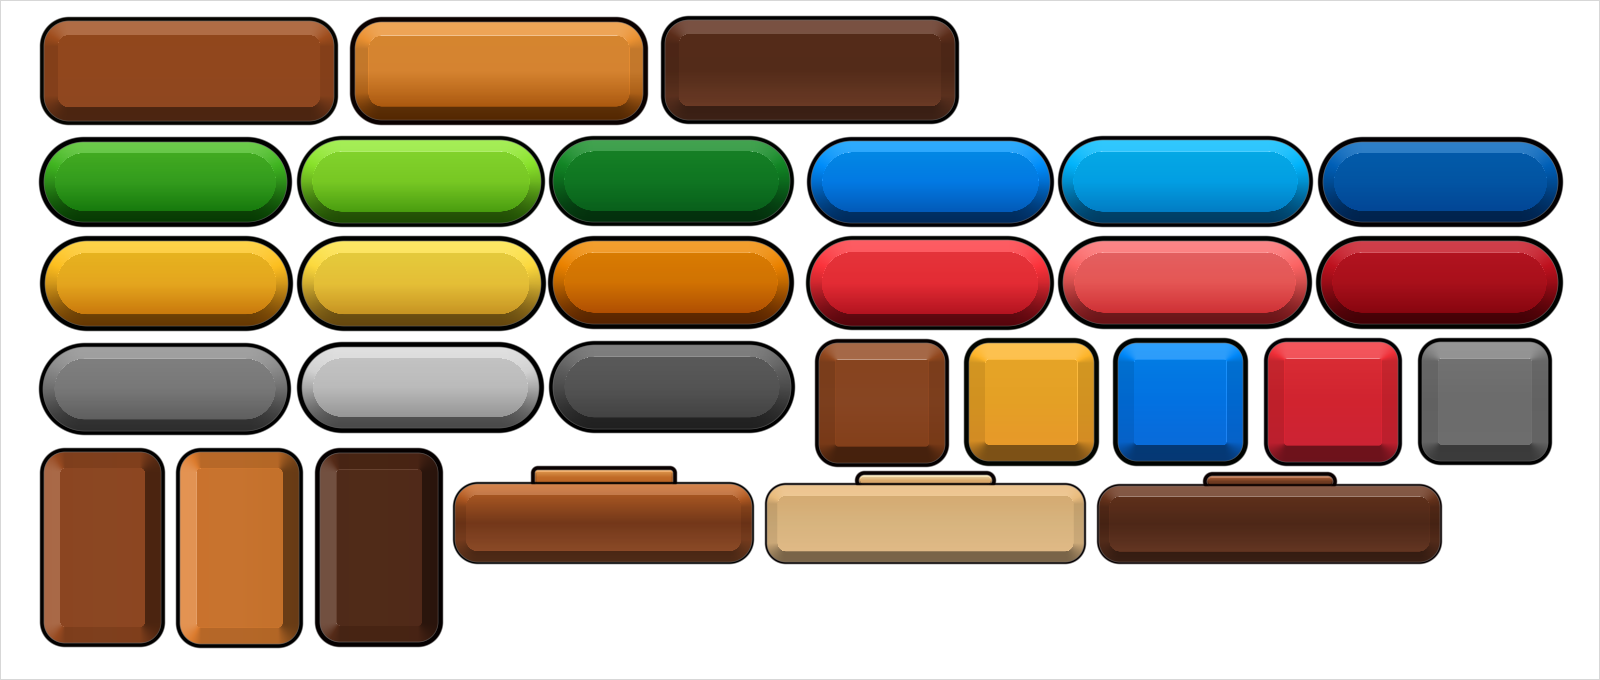
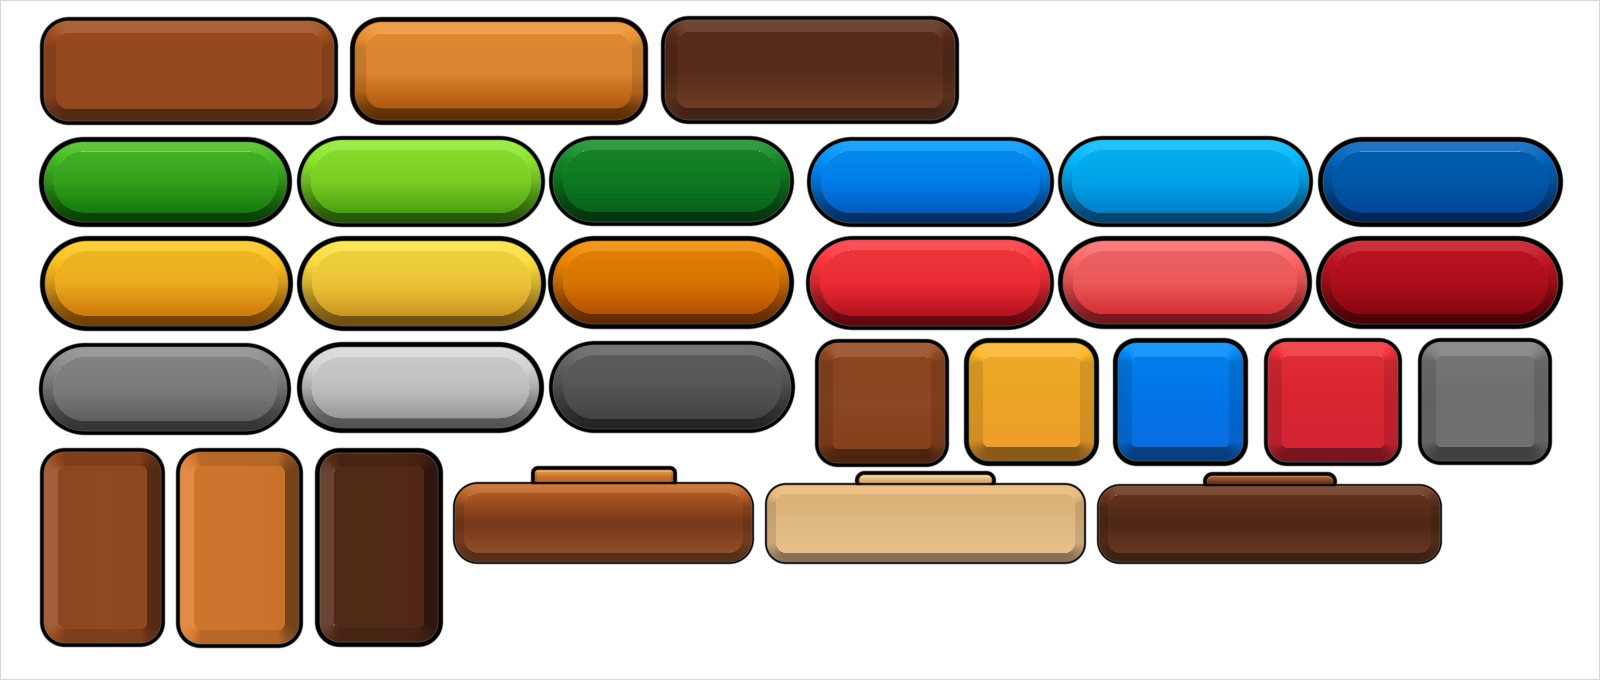
feat(ui): how glossy a lit surface is, as a number
The owner asked for the relief's gloss to be configurable so it can
match the sheet's buttons. Brightness was already a number; how tight
the shine is now is too.

polish decides the shape of the highlight: low spreads it across the
whole lit side, which reads as wet plastic, and high draws it to a
point, which reads as glass. Drawn game art sits low, around a fifth to
a half. It rides in the fill colour's red, which a lit quad does not
otherwise use, so the vertex layout is unchanged again.

- ReliefGlTest: a wet surface shines over more of the lit side than a
  glassy one, and the glassy one is no dimmer where it does shine.
- The Modifiers page has one shape at four polishes.
- The art sheet's buttons, lit and polished to match: half their pixels
  now within 15 levels of 255 of the original, from 18.

diff --git a/composegl-ui/src/commonMain/kotlin/dev/wildware/composegl/ui/modifier/Elements.kt b/composegl-ui/src/commonMain/kotlin/dev/wildware/composegl/ui/modifier/Elements.kt
@@ -273,8 +273,10 @@ data class ReliefElement(
     val elevation: Float = 55f,
     val strength: Float = 0.6f,
     val gloss: Float = 0.3f,
+    val polish: Float = 0.5f,
 ) : Modifier.Element {
     init {
+        require(polish in 0f..1f) { "a surface is between wet and glassy, not $polish" }
         require(depth > 0f && depth <= 1f) { "an edge climbs across some of the box, not $depth" }
         require(elevation > 0f && elevation <= 90f) { "the light is somewhere above the surface, not at $elevation" }
         require(strength >= 0f && strength <= 1f) { "a light is between off and full, not $strength" }
@@ -1085,6 +1087,8 @@ fun Modifier.bevel(
  * @param elevation how high the light is, in degrees: 90 is straight on and flattens everything.
  * @param strength how much difference the light makes.
  * @param gloss how bright the shine is where the surface faces the light squarely.
+ * @param polish how tight that shine is: low spreads it across the whole lit side, which is wet
+ *   plastic, and high draws it to a point, which is glass. Drawn game art is usually low.
  */
 @Suppress("LongParameterList")
 fun Modifier.relief(
@@ -1095,7 +1099,8 @@ fun Modifier.relief(
     elevation: Float = 55f,
     strength: Float = 0.6f,
     gloss: Float = 0.3f,
-) = relief(Corners.single(corner), shape, depth, light, elevation, strength, gloss)
+    polish: Float = 0.5f,
+) = relief(Corners.single(corner), shape, depth, light, elevation, strength, gloss, polish)
 
 /** The same, with its own radius on each corner. */
 @Suppress("LongParameterList")
@@ -1107,7 +1112,8 @@ fun Modifier.relief(
     elevation: Float = 55f,
     strength: Float = 0.6f,
     gloss: Float = 0.3f,
-) = then(ReliefElement(corners, shape, depth, light, elevation, strength, gloss))
+    polish: Float = 0.5f,
+) = then(ReliefElement(corners, shape, depth, light, elevation, strength, gloss, polish))
 
 /**
  * One light, lighting the whole box: the bevel, the shine and the shadow all agree about it.

diff --git a/composegl-lwjgl3/src/test/kotlin/dev/wildware/composegl/lwjgl3/ReliefGlTest.kt b/composegl-lwjgl3/src/test/kotlin/dev/wildware/composegl/lwjgl3/ReliefGlTest.kt
@@ -40,6 +40,7 @@ class ReliefGlTest {
         light: Float = 90f,
         depth: Float = 24f,
         gloss: Float = 0f,
+        polish: Float = 0.5f,
     ): IntArray = Gl.render {
         val canvas = GlCanvas(null)
         try {
@@ -47,7 +48,7 @@ class ReliefGlTest {
             Gl.gl.clear(GL11.GL_COLOR_BUFFER_BIT)
             canvas.begin(viewport)
             canvas.rect(box, face, corner = 16f)
-            canvas.relief(box, Corners.all(16f), shape, depth = depth, light = light, gloss = gloss)
+            canvas.relief(box, Corners.all(16f), shape, depth = depth, light = light, gloss = gloss, polish = polish)
             canvas.end()
             Gl.readPixels(Gl.size, Gl.size)
         } finally {
@@ -116,5 +117,22 @@ class ReliefGlTest {
         val brightestMatte = (44..136).maxOf { matte.grey(110, it) }
         val brightestShiny = (44..136).maxOf { shiny.grey(110, it) }
         assertTrue(brightestShiny > brightestMatte + 15, "a shine: $brightestShiny against $brightestMatte")
+    }
+
+    @Test
+    fun `a wet surface spreads its shine where a glassy one draws it to a point`() {
+        fun litRows(polish: Float): List<Int> {
+            val frame = draw(shape = Relief.Fillet, depth = 34f, gloss = 1f, polish = polish)
+            return (42..90).map { frame.grey(110, it) }
+        }
+
+        val wet = litRows(0.05f)
+        val glassy = litRows(0.95f)
+
+        // How much of the lit side is brighter than the fill: a wet surface shines over more of it.
+        val wetBand = wet.count { it > 0x90 }
+        val glassyBand = glassy.count { it > 0x90 }
+        assertTrue(wetBand > glassyBand + 3, "the wet shine covers more rows: $wetBand against $glassyBand")
+        assertTrue(glassy.max() >= wet.max() - 12, "and the glassy one is no dimmer where it does shine")
     }
 }

diff --git a/composegl-render/src/commonMain/kotlin/dev/wildware/composegl/render/QuadBatch.kt b/composegl-render/src/commonMain/kotlin/dev/wildware/composegl/render/QuadBatch.kt
@@ -174,6 +174,8 @@ class QuadBatch(private val device: GpuDevice, private val maxQuads: Int = 2048)
      * @param strength how much difference the light makes.
      * @param lightX where the light is, as a direction; [lightZ] is how high above the surface.
      * @param gloss how bright the specular highlight is. Zero for a matte surface.
+     * @param polish how tight that highlight is: low spreads it across the lit side, high draws it
+     *   to a point. Rides in the fill colour's red, which a lit quad does not otherwise use.
      */
     @Suppress("LongParameterList")
     fun relief(
@@ -193,6 +195,7 @@ class QuadBatch(private val device: GpuDevice, private val maxQuads: Int = 2048)
         lightY: Float,
         lightZ: Float,
         gloss: Float,
+        polish: Float,
         aa: Float,
     ) {
         val halfWidth = width / 2f
@@ -212,7 +215,8 @@ class QuadBatch(private val device: GpuDevice, private val maxQuads: Int = 2048)
             centreX = left + halfWidth,
             centreY = bottom + halfHeight,
             u = white.u, v = white.v, u2 = white.u, v2 = white.v,
-            fill = Colour.White,
+            // Opaque white but for the red, which carries how polished the surface is.
+            fill = Colour(255, (polish.coerceIn(0f, 1f) * 255f).toInt(), 255, 255),
             border = Colour.Transparent,
             // The light, packed as a colour: a direction of minus one to one, written zero to one.
             shadow = Colour(

diff --git a/composegl-demo/src/main/kotlin/dev/wildware/composegl/demo/docs/ReliefShots.kt b/composegl-demo/src/main/kotlin/dev/wildware/composegl/demo/docs/ReliefShots.kt
@@ -42,6 +42,20 @@ internal fun ReliefShapes() {
                 }
             }
             Row(horizontalArrangement = Arrangement.spacedBy(16f), verticalAlignment = VerticalAlignment.Centre) {
+                listOf("wet" to 0.05f, "satin" to 0.35f, "shiny" to 0.6f, "glass" to 0.95f).forEach { (name, polish) ->
+                    Box(
+                        Modifier
+                            .size(110f, 60f)
+                            .background(face, corner = 16f)
+                            .relief(corner = 16f, shape = Relief.Fillet, depth = 0.35f, gloss = 0.9f, polish = polish)
+                            .borderOutside(ink, width = 4f, corner = 16f),
+                        contentAlignment = Alignment.Centre,
+                    ) {
+                        Text(name, style = "label")
+                    }
+                }
+            }
+            Row(horizontalArrangement = Arrangement.spacedBy(16f), verticalAlignment = VerticalAlignment.Centre) {
                 listOf(90f, 45f, 0f, 315f).forEach { angle ->
                     Box(
                         Modifier

diff --git a/composegl-render/src/commonMain/kotlin/dev/wildware/composegl/render/gl/Glsl.kt b/composegl-render/src/commonMain/kotlin/dev/wildware/composegl/render/gl/Glsl.kt
@@ -232,7 +232,11 @@ object GlslSources {
                 // Straight on, so the half vector between the eye and the light is all it takes.
                 // "half" is a reserved word in this dialect, so the half vector is halfway.
                 vec3 halfway = normalize(light + vec3(0.0, 0.0, 1.0));
-                float shine = pow(max(dot(normal, halfway), 0.0), 24.0) * v_shadowColor.w;
+                // How polished the surface is decides how tight the shine is: a low number spreads
+                // it across the whole lit side, which is wet-looking plastic, and a high one draws
+                // it to a point, which is glass. It rides in the fill colour's red, unused here.
+                float tightness = mix(2.0, 90.0, clamp(v_color.r, 0.0, 1.0));
+                float shine = pow(max(dot(normal, halfway), 0.0), tightness) * v_shadowColor.w;
                 float strength = v_gradient.z;
                 float shade = (facing - light.z) * strength;
                 vec4 lift = vec4(1.0, 1.0, 1.0, clamp(shade, 0.0, 1.0));

diff --git a/composegl-demo/src/main/kotlin/dev/wildware/composegl/demo/docs/MouldedSheet.kt b/composegl-demo/src/main/kotlin/dev/wildware/composegl/demo/docs/MouldedSheet.kt
@@ -59,6 +59,7 @@ private fun Button(piece: Sheet.Piece) {
                 elevation = Tuning[1],
                 strength = Tuning[2],
                 gloss = Tuning[3],
+                polish = Tuning[4],
             )
             .borderOutside(Colour.rgb(piece.ink), width = line, corners = Corners.all(corner)),
     )
@@ -66,11 +67,11 @@ private fun Button(piece: Sheet.Piece) {
 
 /**
  * Depth, shine and strength, so the numbers can be tried against the original without a rebuild:
- * `COMPOSEGL_MOULD=depth,elevation,strength,gloss`.
+ * `COMPOSEGL_MOULD=depth,elevation,strength,gloss,polish`.
  *
  * The defaults are where a search against the original settled.
  */
-private val Tuning: FloatArray = (System.getenv("COMPOSEGL_MOULD") ?: "0.14,50,0.75,0.45")
+private val Tuning: FloatArray = (System.getenv("COMPOSEGL_MOULD") ?: "0.12,55,0.7,0.5,0.45")
     .split(',').map { it.trim().toFloat() }.toFloatArray()
 
 /** The colour a fraction of the way down the original's face. */

diff --git a/composegl-ui/src/commonMain/kotlin/dev/wildware/composegl/ui/graphics/UiCanvas.kt b/composegl-ui/src/commonMain/kotlin/dev/wildware/composegl/ui/graphics/UiCanvas.kt
@@ -198,6 +198,8 @@ interface UiCanvas {
      * @param elevation how high the light is above the surface, in degrees: 90 is straight on.
      * @param strength how much difference the light makes at all.
      * @param gloss how bright the shine is where the surface faces the light squarely.
+     * @param polish how tight that shine is: low spreads it across the whole lit side, which is wet
+     *   plastic, and high draws it to a point, which is glass.
      */
     @Suppress("LongParameterList")
     fun relief(
@@ -209,6 +211,7 @@ interface UiCanvas {
         elevation: Float = 55f,
         strength: Float = 0.6f,
         gloss: Float = 0.3f,
+        polish: Float = 0.5f,
     ) {
         // Nothing, honestly: see shadesInside.
     }

diff --git a/composegl-demo/src/main/kotlin/dev/wildware/composegl/demo/docs/DocShots.kt b/composegl-demo/src/main/kotlin/dev/wildware/composegl/demo/docs/DocShots.kt
@@ -353,7 +353,7 @@ private fun MutableList<DocShot>.scenes() {
     // The same buttons again, with two lines each instead of a measurement.
     add(DocShot("moulded-sheet", 1600, 680, stock = true) { MouldedSheet() })
     // A box lit as a surface with a shape: the three edges, and the light moved round one of them.
-    add(DocShot("relief-shapes", 580, 230, stock = true) { ReliefShapes() })
+    add(DocShot("relief-shapes", 580, 310, stock = true) { ReliefShapes() })
 
     // Through Skin.Default rather than the example's skin, because the point of the picture is
     // what you get before you have written a skin at all.

diff --git a/composegl-ui/src/commonMain/kotlin/dev/wildware/composegl/ui/draw/DrawPass.kt b/composegl-ui/src/commonMain/kotlin/dev/wildware/composegl/ui/draw/DrawPass.kt
@@ -722,7 +722,7 @@ class DrawPass(val canvas: UiCanvas) {
             is ReliefElement -> canvas.relief(
                 rect, element.corners, element.shape,
                 minOf(rect.width, rect.height) * element.depth,
-                element.light, element.elevation, element.strength, element.gloss,
+                element.light, element.elevation, element.strength, element.gloss, element.polish,
             )
             is BrushBackgroundElement -> canvas.box(rect, element.brush, element.corners)
             is NinePatchElement -> element.patch.drawInto(canvas, rect, element.tint)

diff --git a/composegl-render/src/commonMain/kotlin/dev/wildware/composegl/render/RenderCanvas.kt b/composegl-render/src/commonMain/kotlin/dev/wildware/composegl/render/RenderCanvas.kt
@@ -356,6 +356,7 @@ open class RenderCanvas protected constructor(
         elevation: Float,
         strength: Float,
         gloss: Float,
+        polish: Float,
     ) {
         if (state.isHidden || rect.isEmpty || depth <= 0f || strength <= 0f) return
         val box = state.map(rect)
@@ -385,6 +386,7 @@ open class RenderCanvas protected constructor(
             lightY = -sin(radians) * flat,
             lightZ = sin(high),
             gloss = gloss,
+            polish = polish,
             aa = antialias,
         )
     }

diff --git a/docs/wiki/Modifiers.md b/docs/wiki/Modifiers.md
@@ -679,8 +679,10 @@ across the whole face. `depth` is how far the climb reaches in, as a fraction of
 shorter side — a dome wants about `0.5f`, an edge about `0.2f`.
 
 `light` and `elevation` place the light: degrees clockwise from pointing right, and
-degrees above the surface. `gloss` adds a specular shine where the surface faces the
-light squarely.
+degrees above the surface. `gloss` is how bright the shine is, and `polish` is how tight
+it is — the middle row above is one shape at four polishes. Low spreads the shine across
+the whole lit side, which reads as wet plastic; high draws it to a point, which reads as
+glass. Drawn game art is usually low, around `0.2f` to `0.5f`.
 
 The corners are the part worth looking at. They are lit by how far they have actually
 turned away from the light, which is what no stack of bands gets right, and it is why a
@@ -700,9 +702,9 @@ each one and this modifier — two lines a button:
 
 ![the sheet's buttons again, each drawn with a gradient and one moulded call](https://raw.githubusercontent.com/wildware-uk/composegl/master/docs/wiki/images/moulded-sheet.png)
 
-Those are lit by `relief` — a chamfered edge and one light — over three colours taken
-off each original. Against that original, half of what it draws lands within 18 levels of
-255. The measured version above gets to 4, because it carries fourteen stops a piece and
+Those are lit by `relief` — a chamfered edge, one light, and a fairly wet polish — over
+three colours taken off each original. Against that original, half of what it draws lands
+within 15 levels of 255. The measured version above gets to 4, because it carries fourteen stops a piece and
 a measured band for the shine. Two lines gets the family; a measurement gets the twin.
 
 **They cost one draw call.** A fill, two shades and an outline batch into a single
